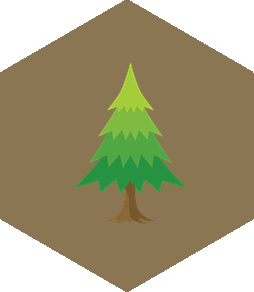
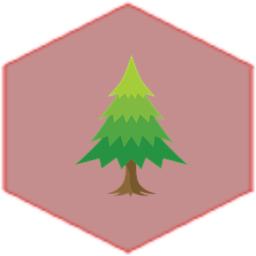
Fixed hex collider dimensions

diff --git a/engine/colliders/hexagonalCollider.cpp b/engine/colliders/hexagonalCollider.cpp
@@ -10,7 +10,7 @@ HexagonalCollider::HexagonalCollider()
 HexagonalCollider::HexagonalCollider(int centerX, int centerY, int length)
 {
     vertexes = new Point[6];
-    const int h = sqrt(pow(length / 2, 2) + pow(length, 2));
+    const int h = sqrt(3) * length / 2;
 
     vertexes[0] = Point(centerX, centerY - length);
     vertexes[1] = Point(centerX + h, centerY - (length / 2));
@@ -48,7 +48,7 @@ bool HexagonalCollider::isPointInsideCollider(int x, int y)
 void HexagonalCollider::render(SDL_Renderer *renderer)
 {
     SDL_FPoint points[7];
-
+    SDL_SetRenderDrawColor(renderer, 255, 0, 0, 255);
     for (int i = 0; i < 6; i++)
     {
         points[i] = SDL_FPoint();
@@ -57,6 +57,7 @@ void HexagonalCollider::render(SDL_Renderer *renderer)
     }
     points[6] = points[0];
     SDL_RenderDrawLinesF(renderer, points, 7);
+    this->renderBoundingBox(renderer);
 }
 
 void HexagonalCollider::renderBoundingBox(SDL_Renderer *renderer)

diff --git a/engine/objects/gameObject.cpp b/engine/objects/gameObject.cpp
@@ -41,6 +41,7 @@ void GameObject::render(SDL_Renderer *renderer)
 {
     SDL_Rect displayRect = getDisplayRect();
     SDL_RenderCopy(renderer, this->texture, NULL, &displayRect);
+    this->collider->render(renderer);
 }
 
 SDL_Rect GameObject::getDisplayRect()
@@ -48,4 +49,9 @@ SDL_Rect GameObject::getDisplayRect()
     int top = this->position.y - height / 2;
     int left = this->position.x - width / 2;
     return {left, top, width, height};
+}
+
+void GameObject::setCollider(Collider *collider)
+{
+    this->collider = collider;
 }

diff --git a/src/entities/treeMapTile.cpp b/src/entities/treeMapTile.cpp
@@ -1,8 +1,12 @@
 #include "TreeMapTile.hpp"
 #include "engine/objects/textureType.hpp"
+#include "engine/colliders/hexagonalCollider.hpp"
 #include "src/constants.hpp"
+#include "math.h"
 
 TreeMapTile::TreeMapTile(int posX, int posY, TextureLoader *textureLoader)
     : GameObject::GameObject(posX, posY, MAP_TILE_WIDTH, MAP_TILE_HEIGHT, textureLoader->getTexture(Tree))
 {
+    Collider *collider = new HexagonalCollider(posX, posY, 0.5 * MAP_TILE_HEIGHT);
+    this->setCollider(collider);
 }

diff --git a/src/game.cpp b/src/game.cpp
@@ -9,7 +9,7 @@ void Game::initWorld()
 
     for (int i = 0; i < 1; i++)
     {
-        GameObject *gameObject = new TreeMapTile(64, 64, this->textureLoader);
+        GameObject *gameObject = new TreeMapTile(400, 300, this->textureLoader);
         this->gameObjects.push_back(gameObject);
     }
 }

diff --git a/src/constants.hpp b/src/constants.hpp
@@ -1,7 +1,9 @@
 #ifndef CONSTANTS_H
 #define CONSTANTS_H
 
+#include "math.h"
+
 static const int MAP_TILE_HEIGHT = 128;
-static const int MAP_TILE_WIDTH = 128;
+static const int MAP_TILE_WIDTH = 0.5 * sqrt(3.0f) * MAP_TILE_HEIGHT;
 
 #endif

diff --git a/engine/objects/gameObject.hpp b/engine/objects/gameObject.hpp
@@ -15,6 +15,7 @@ public:
     void onUpdate();
     void render(SDL_Renderer *renderer);
     SDL_Rect getDisplayRect();
+    void setCollider(Collider *collider);
 
 private:
     Point position;
